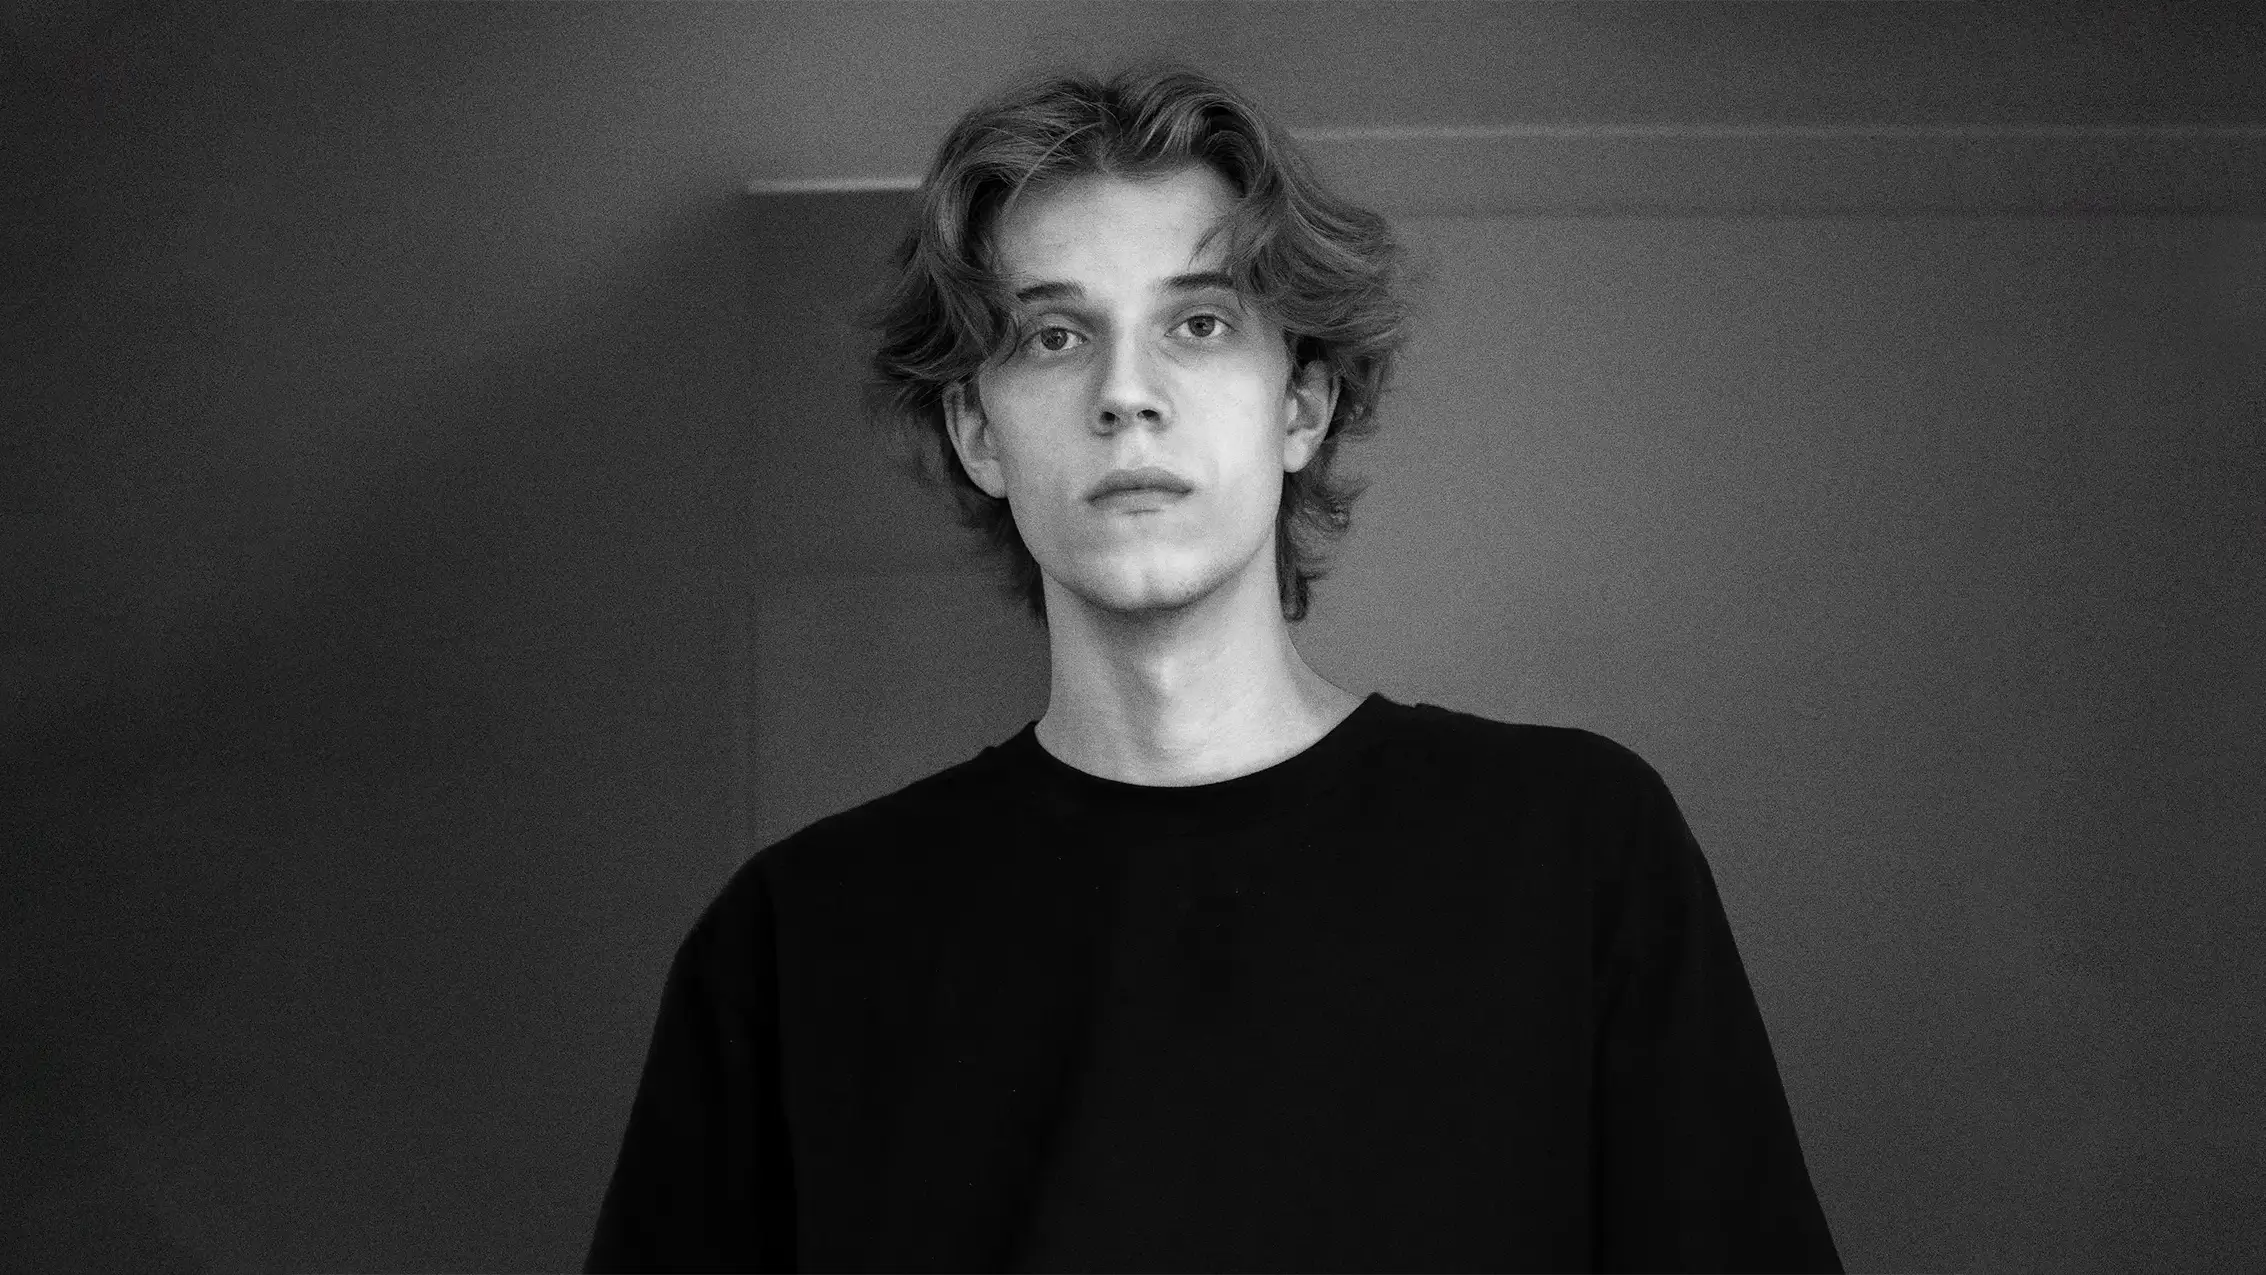
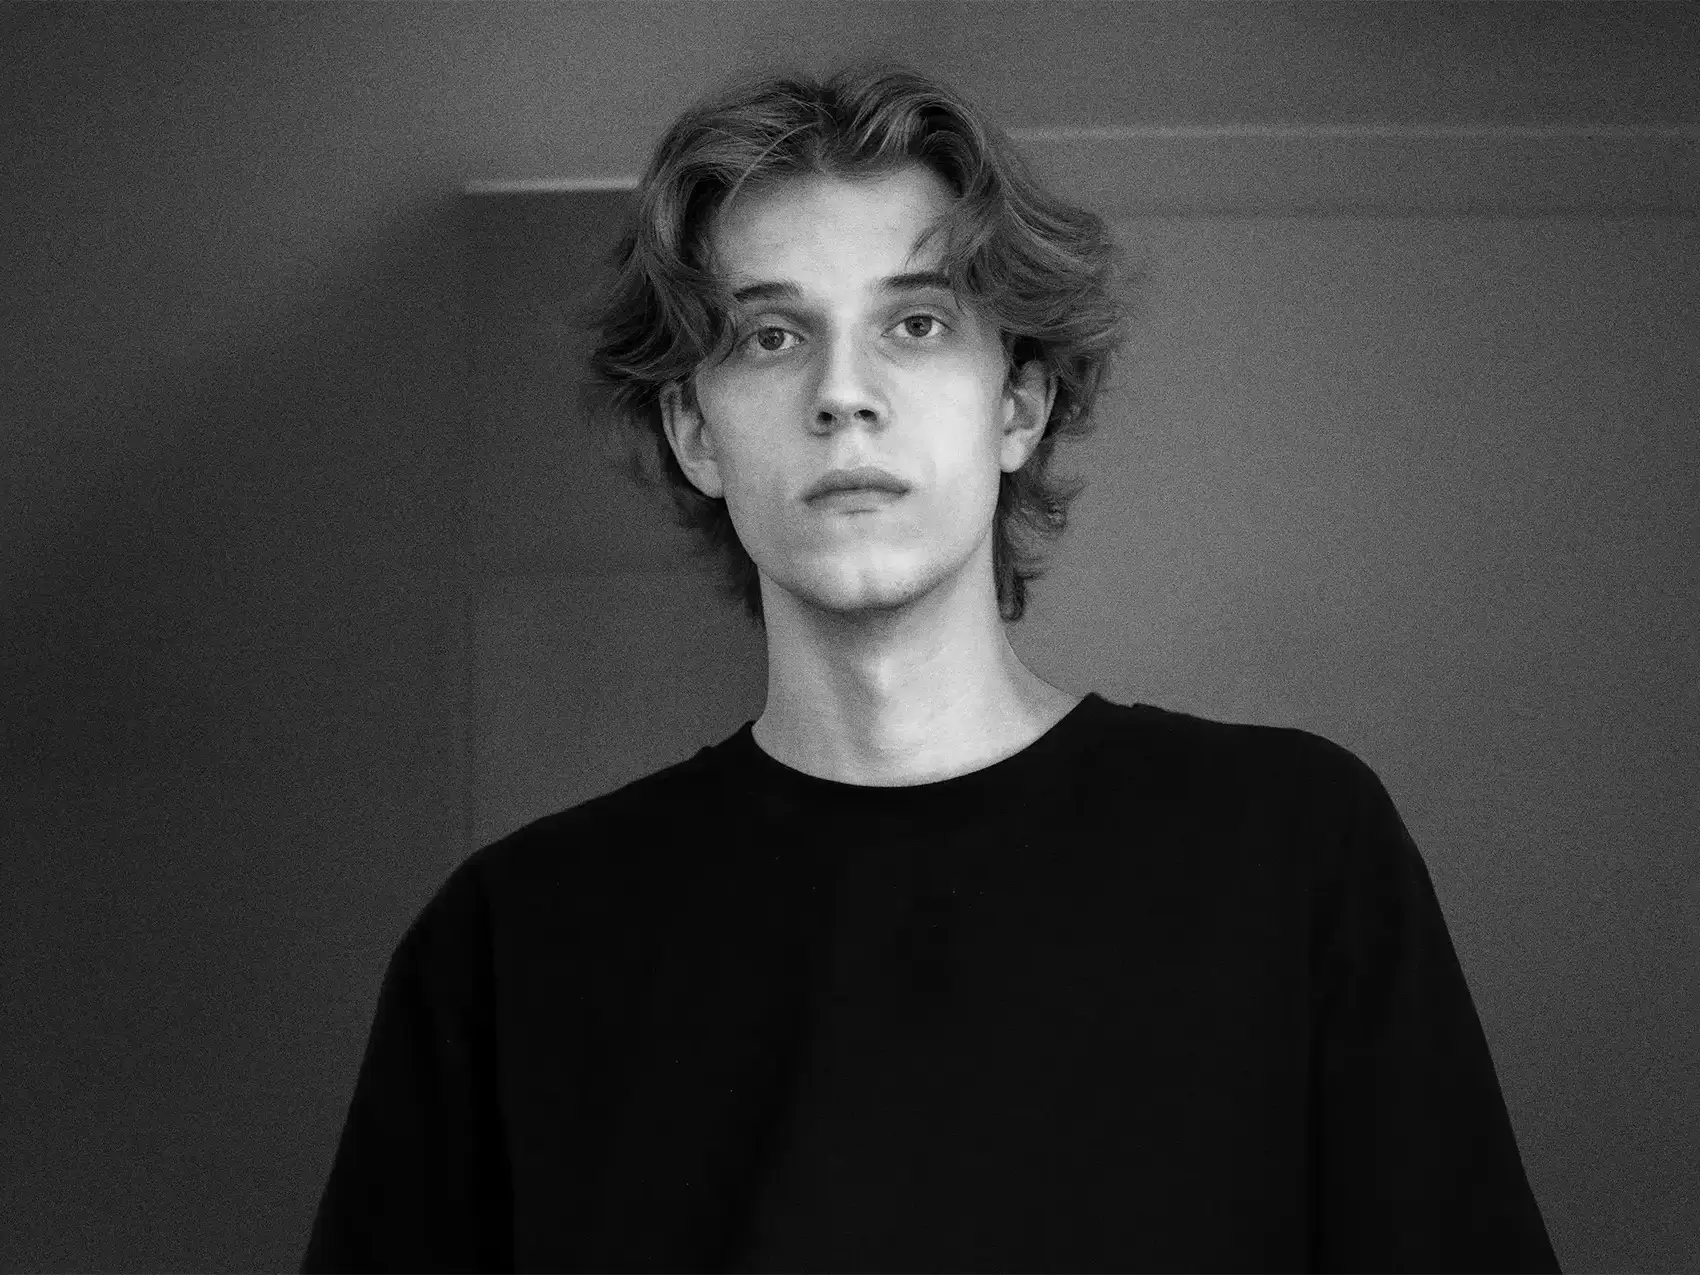
portrait fix

Changed region(s): [[0.0, 0.0, 1.0, 1.0]]

diff --git a/scripts/generate-pdf.js b/scripts/generate-pdf.js
@@ -62,7 +62,28 @@ function generatePdf(pageName, fileName, port) {
         const page = await browser.newPage();
 
         // Point to pagename route
-        await page.goto(path.join("http://localhost:4322", pageName), { waitUntil: "networkidle0" });
+        await page.goto(`http://localhost:${port}${pageName}`, { waitUntil: "networkidle0" });
+
+        await page.evaluate(async () => {
+            const images = Array.from(document.images);
+            images.forEach((image) => {
+                image.loading = "eager";
+            });
+
+            await Promise.all(
+                images.map(
+                    (image) =>
+                        image.complete
+                            ? Promise.resolve()
+                            : new Promise((resolve, reject) => {
+                                image.addEventListener("load", resolve, { once: true });
+                                image.addEventListener("error", () => reject(new Error(`Failed to load image: ${image.src}`)), {
+                                    once: true,
+                                });
+                            }),
+                ),
+            );
+        });
 
         // Inject print-specific CSS
         await page.addStyleTag({
